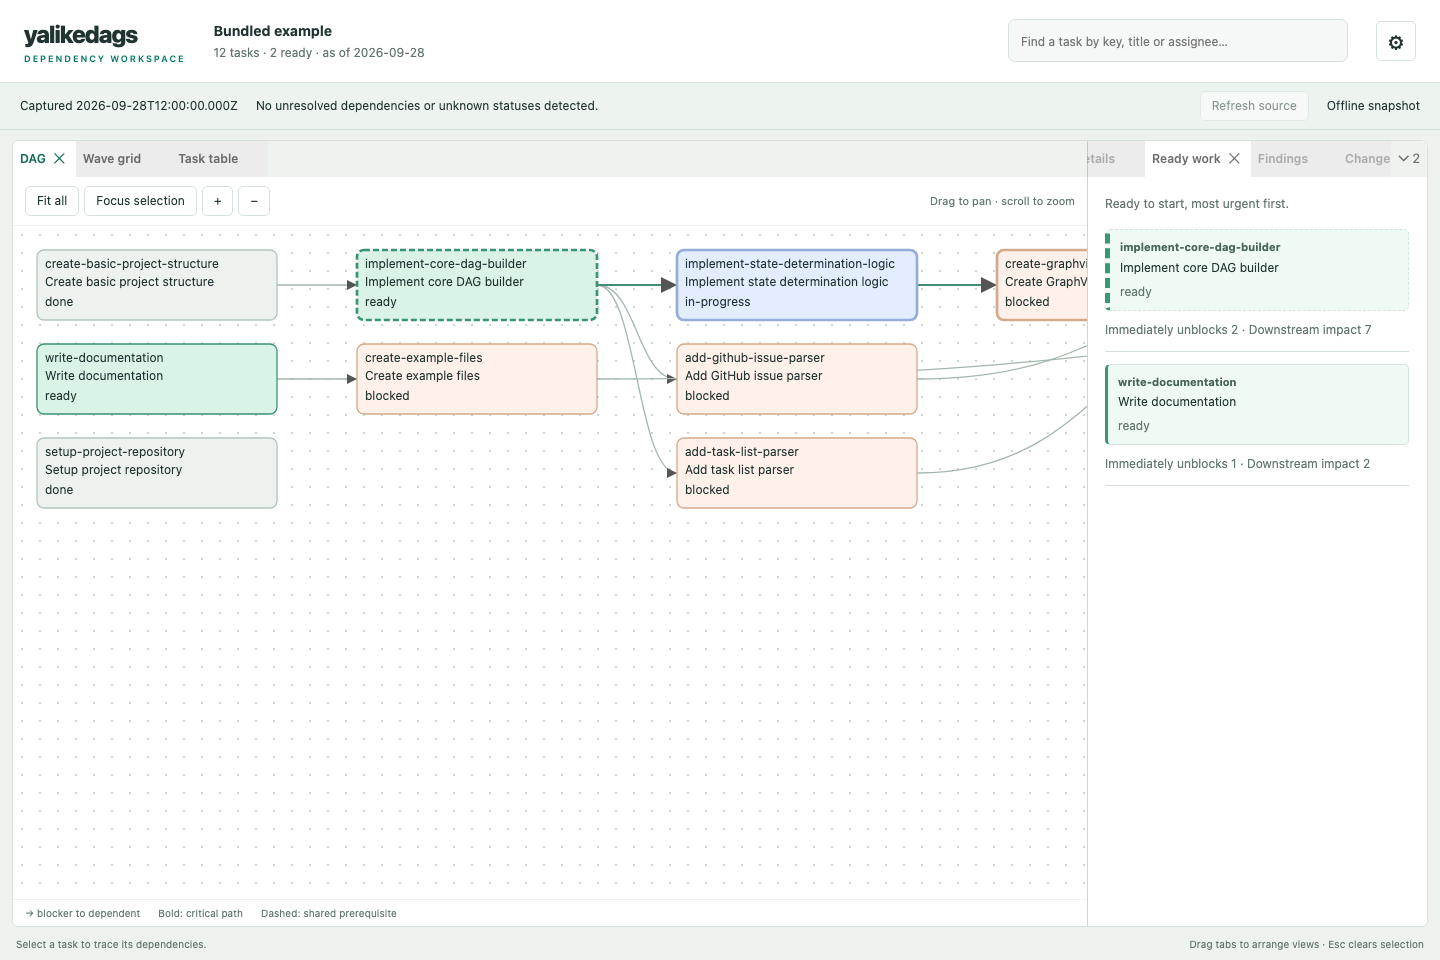
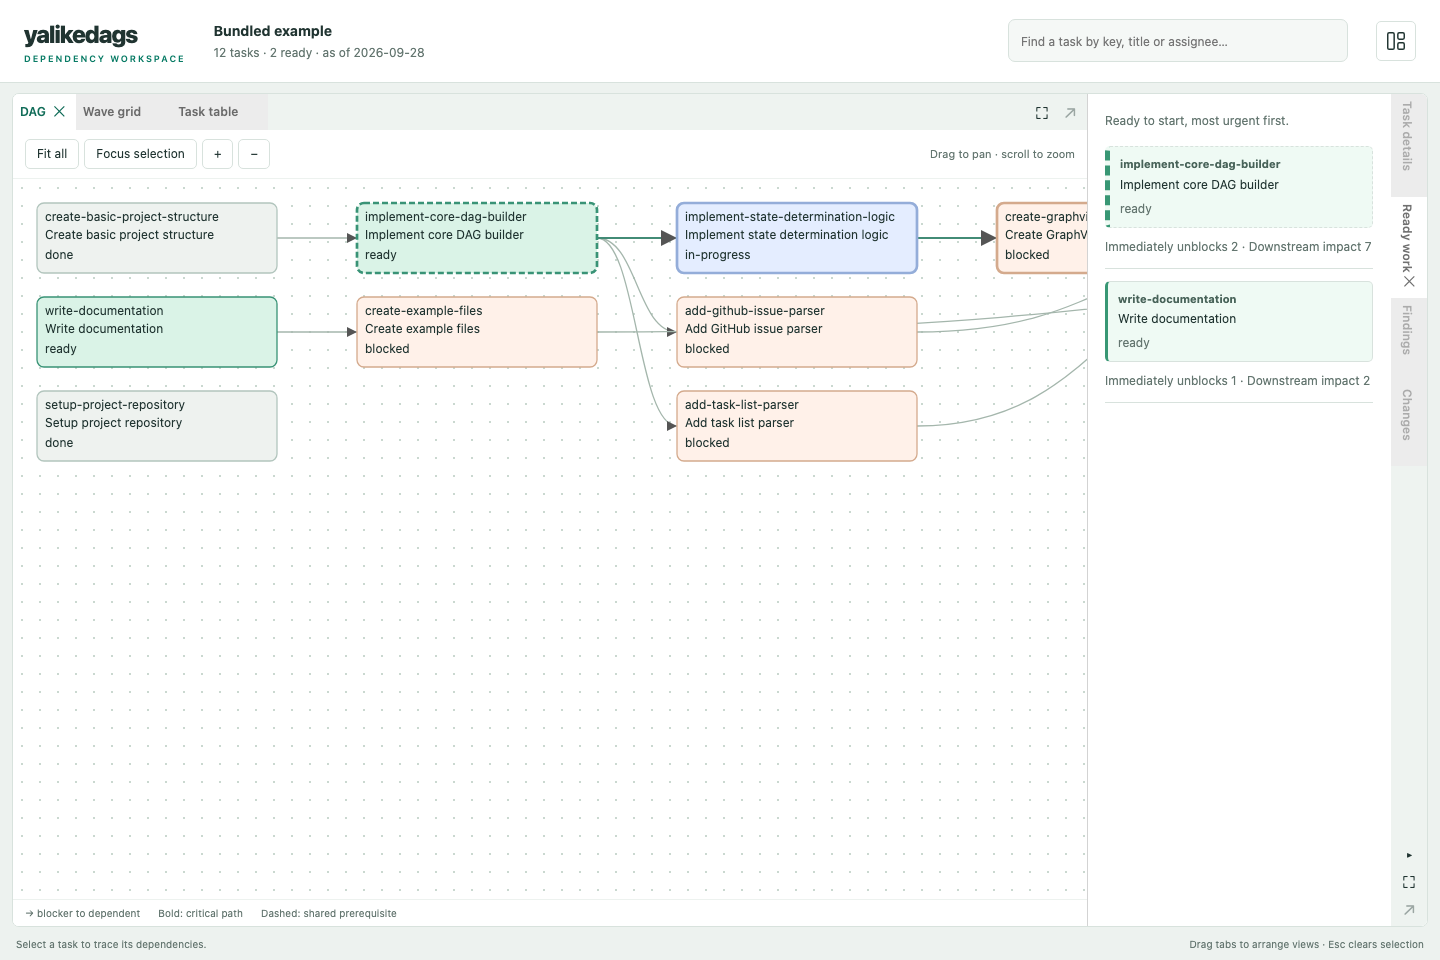
feat: pop out active views into browser windows

diff --git a/e2e/viewer.pw.ts b/e2e/viewer.pw.ts
@@ -357,3 +357,82 @@ test("group expand and restore work repeatedly, including inspector views", asyn
   await page.getByRole("button", { name: "Restore view", exact: true }).click();
   await expect(page.getByRole("button", { name: "Collapse sidebar", exact: true })).toBeVisible();
 });
+
+test("pop-out views stay interactive and return when their window closes", async ({ page }) => {
+  await page.goto("http://127.0.0.1:4178");
+  await workspaceAction(page, "Show task table");
+  const group = page.locator(".dv-groupview").filter({ has: page.getByRole("tab", { name: "Task table", exact: true }) });
+  const opened = page.waitForEvent("popup");
+  await group.getByRole("button", { name: "Pop out view", exact: true }).click();
+  const popup = await opened;
+  await popup.locator("#table-query").fill("Implement core DAG");
+  await expect(popup.locator("#task-table tbody tr")).toHaveCount(1);
+  await popup.locator("#task-table tbody button").click();
+  await expect(page.locator("#detail h2")).toContainText("Implement core DAG builder");
+  await popup.close({ runBeforeUnload: true });
+  await workspaceAction(page, "Show task table");
+  await expect(page.locator("#table-query")).toHaveValue("Implement core DAG");
+  await workspaceAction(page, "Show DAG");
+  const graphWindow = page.waitForEvent("popup");
+  await group.getByRole("button", { name: "Pop out view", exact: true }).click();
+  const graph = await graphWindow;
+  const errors: string[] = [];
+  page.on("pageerror", (error) => errors.push(error.message));
+  graph.on("pageerror", (error) => errors.push(error.message));
+  const before = await graph.locator("#graph svg").getAttribute("viewBox");
+  await graph.getByRole("button", { name: "Zoom in", exact: true }).click();
+  expect(errors).toEqual([]);
+  await expect(graph.locator("#graph svg")).not.toHaveAttribute("viewBox", before!);
+  await page.reload();
+  await workspaceAction(page, "Show DAG");
+  await expect(page.locator("#graph")).toBeVisible();
+  await expect.poll(() => graph.isClosed()).toBe(true);
+});
+
+test("pop-outs explain offline limits and recover from blocked windows", async ({ page }) => {
+  await page.goto(exported);
+  await expect(page.getByRole("button", { name: "Pop out view", exact: true }).first()).toBeDisabled();
+  await page.goto("http://127.0.0.1:4178");
+  await page.evaluate(() => { window.open = (): null => null; });
+  await workspaceAction(page, "Task details");
+  const sidebar = page.locator(".dv-groupview").filter({ has: page.getByRole("tab", { name: "Task details", exact: true }) });
+  await sidebar.getByRole("button", { name: "Pop out view", exact: true }).click();
+  await expect(page.locator("#viewer-notice")).toContainText("Allow pop-ups");
+  await expect(sidebar.getByRole("button", { name: "Collapse sidebar", exact: true })).toBeVisible();
+  await expect(page.locator("#detail")).toBeVisible();
+});
+
+test("sidebar pop-outs return to the sidebar and reset closes their windows", async ({ page }) => {
+  await page.goto("http://127.0.0.1:4178");
+  await workspaceAction(page, "Task details");
+  const sidebar = page.locator(".dv-groupview").filter({ has: page.getByRole("tab", { name: "Task details", exact: true }) });
+  for (const reset of [false, true]) {
+    const opened = page.waitForEvent("popup");
+    await sidebar.getByRole("button", { name: "Pop out view", exact: true }).click();
+    const popup = await opened;
+    await expect(popup.locator("#detail")).toBeVisible();
+    if (reset) { await workspaceAction(page, "Reset layout"); }
+    else { await popup.close({ runBeforeUnload: true }); }
+    await expect.poll(() => popup.isClosed()).toBe(true);
+    await workspaceAction(page, "Task details");
+    await expect(page.locator("#detail")).toBeVisible();
+    await expect(sidebar.getByRole("button", { name: "Collapse sidebar", exact: true })).toBeVisible();
+  }
+});
+
+test("reload redocks popped-out sidebar views while preserving a split layout", async ({ page }) => {
+  await page.goto("http://127.0.0.1:4178");
+  await dockWaveGrid(page);
+  await workspaceAction(page, "Task details");
+  const sidebar = page.locator(".dv-groupview").filter({ has: page.getByRole("tab", { name: "Task details", exact: true }) });
+  const opened = page.waitForEvent("popup");
+  await sidebar.getByRole("button", { name: "Pop out view", exact: true }).click();
+  const popup = await opened;
+  await expect(popup.locator("#detail")).toBeVisible();
+  await page.reload();
+  await expect(page.locator("#graph")).toBeVisible();
+  await expect(page.locator("#grid")).toBeVisible();
+  await workspaceAction(page, "Task details");
+  await expect(page.locator("#detail")).toBeVisible();
+  await expect(sidebar.getByRole("button", { name: "Collapse sidebar", exact: true })).toBeVisible();
+});

diff --git a/src/viewer/browser/LayoutStorage.ts b/src/viewer/browser/LayoutStorage.ts
@@ -31,12 +31,28 @@ export class LayoutStorage {
     if (!isRec(raw)) { return undefined; }
     const grid = rec(raw["grid"]);
     const ids = new Set<string>();
-    const root = this.node(grid["root"], ids, 0);
+    let root = this.node(grid["root"], ids, 0);
     if (root === undefined) { return undefined; }
     const edgeGroups = this.edges(raw["edgeGroups"], ids);
+    root = this.redockPopouts(root, raw["popoutGroups"], ids);
     const panels = Object.fromEntries([...ids].map((id) => [id, { id, contentComponent: id, title: PANEL_TITLES.get(id) ?? id }]));
     const orientation = grid["orientation"] === Orientation.VERTICAL ? Orientation.VERTICAL : Orientation.HORIZONTAL;
     return { grid: { root, width: this.size(grid["width"]), height: this.size(grid["height"]), orientation }, panels, edgeGroups };
+  }
+
+  private redockPopouts(root: GridNode, raw: unknown, ids: Set<string>): GridNode {
+    const groups = list(raw);
+    if (groups.length > PANEL_TITLES.size) { throw new Error("Too many pop-outs"); }
+    const restored = groups.map((value) => {
+      const entry = rec(value);
+      const node = entry["grid"] === undefined
+        ? this.leaf({ data: entry["data"] }, ids)
+        : this.node(rec(entry["grid"])["root"], ids, 0);
+      if (node === undefined) { throw new Error("Invalid pop-out layout"); }
+      return node;
+    });
+    if (restored.length === 0) { return root; }
+    return { type: "branch", size: this.size(root.size), data: [...(Array.isArray(root.data) ? root.data : [root]), ...restored] };
   }
 
   private edges(raw: unknown, ids: Set<string>): NonNullable<Layout["edgeGroups"]> {
@@ -52,11 +68,17 @@ export class LayoutStorage {
     return out;
   }
 
+  private emptyPlaceholder(raw: unknown): boolean {
+    const node = rec(raw);
+    const views = rec(node["data"])["views"];
+    return node["type"] === "leaf" && Array.isArray(views) && views.length === 0;
+  }
+
   private node(raw: unknown, ids: Set<string>, depth: number): GridNode | undefined {
     if (!isRec(raw) || depth > 10) { return undefined; }
     const size = this.size(raw["size"]);
     if (raw["type"] === "branch") {
-      const children = list(raw["data"]);
+      const children = list(raw["data"]).filter((child) => !this.emptyPlaceholder(child));
       if (children.length > PANEL_TITLES.size) { return undefined; }
       const decoded = children.map((child) => this.node(child, ids, depth + 1));
       if (decoded.some((child) => child === undefined)) { return undefined; }

diff --git a/src/viewer/browser/main.ts b/src/viewer/browser/main.ts
@@ -3,7 +3,7 @@ import { WorkspaceMenu } from "./WorkspaceMenu.ts";
 import "dockview/dist/styles/dockview.css";
 import "./viewer.css";
 import { JsonSnapshotRepositoryAdapter } from "../../adapters/input/JsonSnapshotRepositoryAdapter.ts";
-import { element } from "./Dom.ts";
+import { element, isElement } from "./Dom.ts";
 import { ViewerState } from "./ViewerState.ts";
 import { Workspace } from "./Workspace.ts";
 import { SelectionController } from "./SelectionController.ts";
@@ -21,7 +21,7 @@ async function start(): Promise<void> {
   const state = new ViewerState(await new JsonSnapshotRepositoryAdapter(element("snapshot").textContent, "embedded").load());
   const session = new SessionState();
   const workspace = new Workspace(session.layout());
-  new TableController(state);
+  new TableController(state, [...workspace.panels.values()]);
   new ChangesController(state);
   new RefreshController(state, workspace, session);
   const svg = element("graph").querySelector("svg");
@@ -36,13 +36,16 @@ async function start(): Promise<void> {
     ["zoom-in", (): void => { graph.zoom(1 / 1.25); }], ["zoom-out", (): void => { graph.zoom(1.25); }],
     ["reset", (): void => { workspace.reset(); graph.readable(); }],
   ]);
-  document.addEventListener("click", (event) => {
-    if (!(event.target instanceof Element)) { return; }
+  const handleAction = (event: MouseEvent): void => {
+    if (!isElement(event.target)) { return; }
     const control = event.target.closest("button");
     const panel = control?.dataset["panel"];
     if (panel !== undefined) { workspace.show(panel); }
-    actions.get(control?.dataset["action"] ?? "")?.();
-  });
+    const action = actions.get(control?.dataset["action"] ?? "");
+    if (action !== undefined) { event.stopPropagation(); action(); }
+  };
+  document.addEventListener("click", handleAction);
+  workspace.panels.forEach((panel) => { panel.addEventListener("click", handleAction); });
   session.restore(state);
   document.body.dataset["ready"] = "true";
 }

diff --git a/src/viewer/browser/GroupControls.ts b/src/viewer/browser/GroupControls.ts
@@ -5,13 +5,15 @@ import type { GroupActions } from "./GroupActions.ts";
 /** Dockview group actions follow the group's live location and collapsed state. */
 export class GroupControls implements IHeaderActionsRenderer {
   readonly element = document.createElement("div");
+  private readonly popout = document.createElement("button");
   private readonly expand = document.createElement("button");
   private readonly collapse = document.createElement("button");
   private readonly subscriptions: { dispose(): void }[];
 
   constructor(private readonly group: DockviewGroupPanel, changed: () => void, actions: GroupActions) {
     this.element.className = "group-controls";
-    this.element.append(this.collapse, this.expand);
+    this.element.append(this.collapse, this.expand, this.popout);
+    this.popout.addEventListener("click", () => { actions.popout(group); });
     this.expand.addEventListener("click", () => { actions.maximize(group); });
     this.collapse.addEventListener("click", () => {
       if (group.api.isCollapsed()) { group.api.expand(); } else { group.api.collapse(); }
@@ -26,6 +28,13 @@ export class GroupControls implements IHeaderActionsRenderer {
   dispose(): void { this.subscriptions.forEach((subscription) => { subscription.dispose(); }); }
 
   private render(): void {
+    const detached = this.group.api.location.type === "popout";
+    this.expand.disabled = detached;
+    this.popout.hidden = detached;
+    this.popout.textContent = "↗";
+    this.popout.setAttribute("aria-label", "Pop out view");
+    this.popout.disabled = !["http:", "https:"].includes(location.protocol);
+    this.popout.title = this.popout.disabled ? "Pop out requires the local server; open this snapshot with serve." : "Pop out view";
     const expanded = this.group.api.isMaximized();
     this.expand.textContent = expanded ? "⊡" : "⛶";
     this.expand.setAttribute("aria-label", expanded ? "Restore view" : "Expand view");

diff --git a/src/viewer/browser/PopoutActions.ts b/src/viewer/browser/PopoutActions.ts
@@ -1,0 +1,32 @@
+import type { DockviewApi, DockviewGroupPanel } from "dockview";
+import { element } from "./Dom.ts";
+import { Sidebars } from "./Sidebars.ts";
+
+/** Pop out the active tab; the parent continues to own its state and listeners. */
+export class PopoutActions {
+  constructor(private readonly current: () => DockviewApi) {}
+
+  async open(group: DockviewGroupPanel): Promise<void> {
+    const api = this.current();
+    const panel = group.activePanel;
+    if (panel === undefined) { return; }
+    const sidebar = group.api.location.type === "edge";
+    if (sidebar) { panel.api.moveTo({ group: api.addGroup({ direction: "right" }) }); }
+    const restore = (): void => {
+      if (sidebar && this.current() === api && api.getPanel(panel.id) !== undefined) {
+        panel.api.moveTo({ group: new Sidebars().group(api) });
+      }
+    };
+    try {
+      const opened = await api.addPopoutGroup(panel, {
+        popoutUrl: "/popout.html",
+        onWillClose: () => { queueMicrotask(restore); },
+      });
+      if (opened) { return; }
+    } catch { /* Leave the view usable when the browser denies a window. */ }
+    restore();
+    const notice = element("viewer-notice");
+    notice.hidden = false;
+    notice.textContent = "Could not open the view. Allow pop-ups for this local viewer and try again.";
+  }
+}

diff --git a/src/viewer/browser/SelectionController.ts b/src/viewer/browser/SelectionController.ts
@@ -1,4 +1,4 @@
-import { element } from "./Dom.ts";
+import { element, isElement } from "./Dom.ts";
 import type { ViewerState } from "./ViewerState.ts";
 
 export class SelectionController {
@@ -15,13 +15,14 @@ export class SelectionController {
 
   private bind(panel: HTMLElement): void {
     panel.addEventListener("click", (event) => {
-      if (!(event.target instanceof Element)) { return; }
+      if (!isElement(event.target)) { return; }
       const node = event.target.closest("[data-task],.node[data-id]");
       const id = node?.getAttribute("data-task") ?? node?.getAttribute("data-id");
       if (id) { this.state.select(id); }
     });
     panel.addEventListener("keydown", (event) => {
-      if (!(event.target instanceof SVGElement) || !["Enter", " "].includes(event.key)) { return; }
+      if (event.key === "Escape") { this.state.select(undefined); event.stopPropagation(); }
+      if (!isElement(event.target) || !event.target.matches(".node[data-id]") || !["Enter", " "].includes(event.key)) { return; }
       event.preventDefault();
       this.state.select(event.target.getAttribute("data-id") ?? undefined);
     });

diff --git a/src/viewer/browser/TableController.ts b/src/viewer/browser/TableController.ts
@@ -12,7 +12,7 @@ export class TableController {
   private readonly filters = new Map<string, HTMLSelectElement>();
   private readonly query: HTMLInputElement;
 
-  constructor(private readonly state: ViewerState) {
+  constructor(private readonly state: ViewerState, private readonly panels: readonly HTMLElement[]) {
     const query = this.control("table-query");
     if (!(query instanceof HTMLInputElement)) { throw new Error("Missing table query"); }
     this.query = query;
@@ -104,7 +104,7 @@ export class TableController {
     summary.hidden = tasks.length === this.state.dag.size;
     summary.textContent = `Filters: ${String(tasks.length)}/${String(this.state.dag.size)} tasks · edit in Task table`;
     const ids = new Set(tasks.map((task) => task.id));
-    document.querySelectorAll<HTMLElement | SVGElement>(".node,.card").forEach((node) => {
+    this.panels.flatMap((panel) => [...panel.querySelectorAll<HTMLElement | SVGElement>(".node,.card")]).forEach((node) => {
       node.classList.toggle("filtered-out", !ids.has(node.dataset["id"] ?? ""));
     });
     this.highlight();

diff --git a/test/Viewer.test.ts b/test/Viewer.test.ts
@@ -24,6 +24,14 @@ describe("ViewerRequestHandler", () => {
     expect(res.body).not.toMatch(/@import/);
     expect(res.body).toContain('id="refresh" disabled');
   });
+  test("GET /popout.html is an empty same-origin shell without task data or scripts", () => {
+    const res = new ViewerRequestHandler(() => analysis).handle("/popout.html");
+    expect(res.status).toBe(200);
+    expect(res.contentType).toContain("text/html");
+    expect(res.body).toContain("<body></body>");
+    expect(res.body).not.toContain("<script");
+    expect(res.body).not.toContain("PRO-1");
+  });
   test("GET /snapshot.json returns the snapshot as JSON", () => {
     const res = new ViewerRequestHandler(() => analysis).handle("/snapshot.json");
     expect(res.status).toBe(200);

diff --git a/src/viewer/ViewerRequestHandler.ts b/src/viewer/ViewerRequestHandler.ts
@@ -29,6 +29,8 @@ export class ViewerRequestHandler {
       case "/":
       case "/index.html":
         return { status: 200, contentType: "text/html; charset=utf-8", body: viewerPage(a, { svg: this.svg.render(a), snapshotJson: this.json.render(a) }, this.options()) };
+      case "/popout.html":
+        return { status: 200, contentType: "text/html; charset=utf-8", body: '<!doctype html><html lang="en"><head><meta charset="utf-8"><title>yalikedags · View</title></head><body></body></html>' };
       case "/snapshot.json":
         return { status: 200, contentType: this.json.contentType, body: this.json.render(a) };
       case "/graph.svg":

diff --git a/src/viewer/browser/GroupActions.ts b/src/viewer/browser/GroupActions.ts
@@ -1,3 +1,4 @@
+import { PopoutActions } from "./PopoutActions.ts";
 import type { DockviewApi, DockviewGroupPanel } from "dockview";
 import { Sidebars } from "./Sidebars.ts";
 
@@ -5,6 +6,8 @@ import { Sidebars } from "./Sidebars.ts";
 export class GroupActions {
   private expandedSidebar: string | undefined;
   constructor(private readonly current: () => DockviewApi) {}
+
+  popout(group: DockviewGroupPanel): void { void new PopoutActions(this.current).open(group); }
 
   maximize(group: DockviewGroupPanel): void {
     const api = this.current();

diff --git a/e2e/workspace.ts b/e2e/workspace.ts
@@ -14,5 +14,5 @@ export async function dockWaveGrid(page: Page): Promise<void> {
 export async function workspaceAction(page: Page, name: string): Promise<void> {
   const toggle = page.getByRole("button", { name: "Views menu", exact: true });
   if (await toggle.getAttribute("aria-expanded") !== "true") { await toggle.click(); }
-  await page.getByRole("button", { name, exact: true }).click();
+  await page.getByRole("navigation", { name: "Workspace views" }).getByRole("button", { name, exact: true }).click();
 }

diff --git a/src/viewer/browser/viewer.css b/src/viewer/browser/viewer.css
@@ -66,3 +66,5 @@ footer {align-items:center}
 .group-controls button {width:26px;height:26px;padding:2px;border:0;background:transparent;font-size:17px}
 .group-controls button[hidden] {display:none}
 .group-controls button:hover {background:#dcebe3}
+.dv-right-actions-container-vertical .group-controls {flex-direction:column;padding:4px 0}
+.group-controls button:disabled {opacity:.4;cursor:default}
